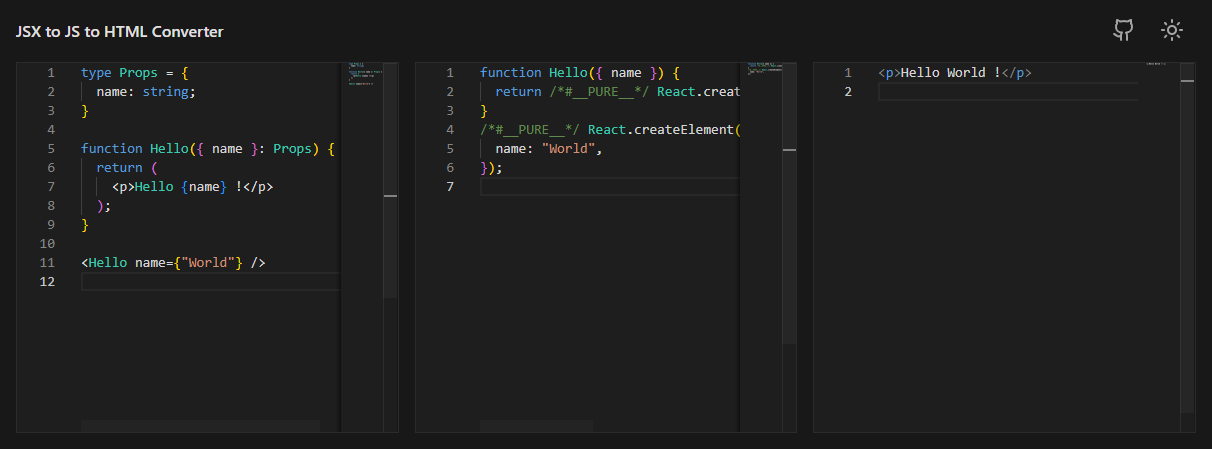
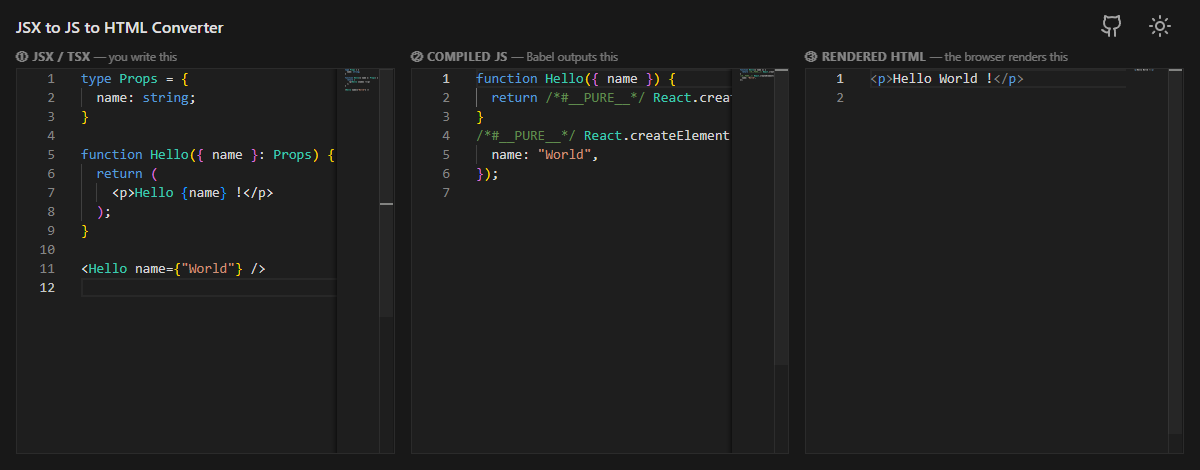
Add edito labels and tweak the layout

diff --git a/index.html b/index.html
@@ -52,6 +52,32 @@
         min-height: 0;
       }
 
+      .editor-panel {
+        flex: 1;
+        display: flex;
+        flex-direction: column;
+        min-height: 0;
+        min-width: 0;
+      }
+
+      .editor-label {
+        font-size: 0.72rem;
+        font-weight: 700;
+        text-transform: uppercase;
+        letter-spacing: 0.06em;
+        padding-bottom: 0.3rem;
+        opacity: 0.55;
+        user-select: none;
+        white-space: nowrap;
+      }
+
+      .editor-label-sub {
+        font-weight: 400;
+        text-transform: none;
+        letter-spacing: 0;
+        opacity: 0.85;
+      }
+
       .code-editor {
         flex: 1;
         border: 1px solid var(--border);
@@ -67,7 +93,7 @@
         display: flex;
         align-items: center;
         justify-content: space-between;
-        margin: 0 0 0.75rem 0;
+        margin: -0.25rem 0 0.25rem 0;
       }
 
       .header-actions {
@@ -142,9 +168,18 @@
     </h1>
 
     <div class="container">
-      <div class="code-editor" id="code-editor-input"></div>
-      <div class="code-editor" id="code-editor-output-js"></div>
-      <div class="code-editor" id="code-editor-output-html"></div>
+      <div class="editor-panel">
+        <div class="editor-label">① JSX / TSX <span class="editor-label-sub">— you write this</span></div>
+        <div class="code-editor" id="code-editor-input"></div>
+      </div>
+      <div class="editor-panel">
+        <div class="editor-label">② Compiled JS <span class="editor-label-sub">— Babel outputs this</span></div>
+        <div class="code-editor" id="code-editor-output-js"></div>
+      </div>
+      <div class="editor-panel">
+        <div class="editor-label">③ Rendered HTML <span class="editor-label-sub">— the browser renders this</span></div>
+        <div class="code-editor" id="code-editor-output-html"></div>
+      </div>
     </div>
 
     <script type="module">
